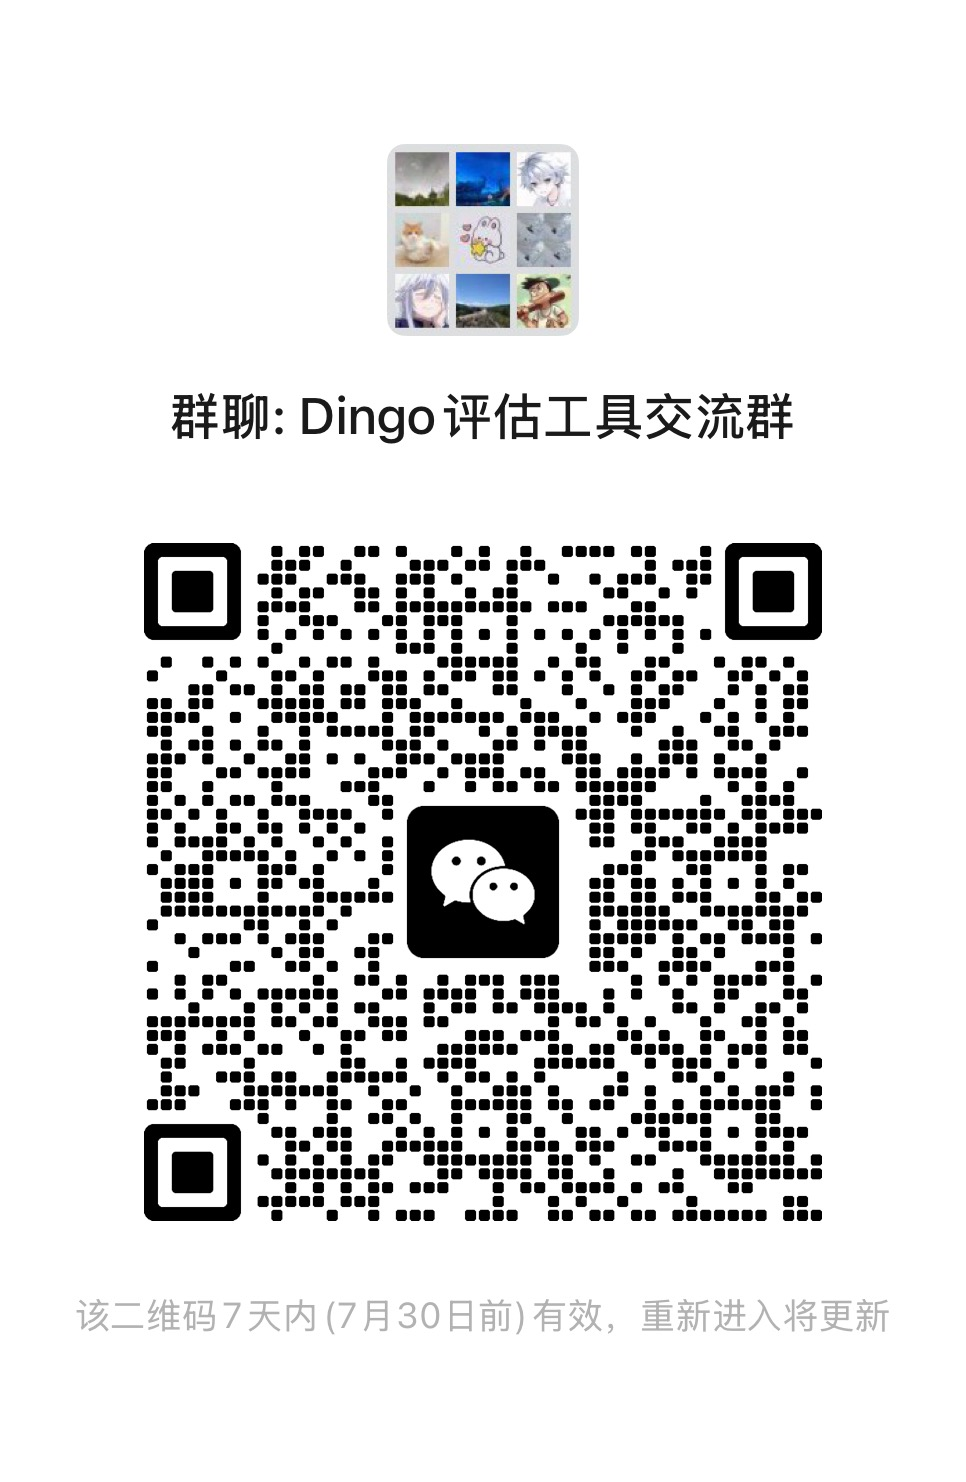
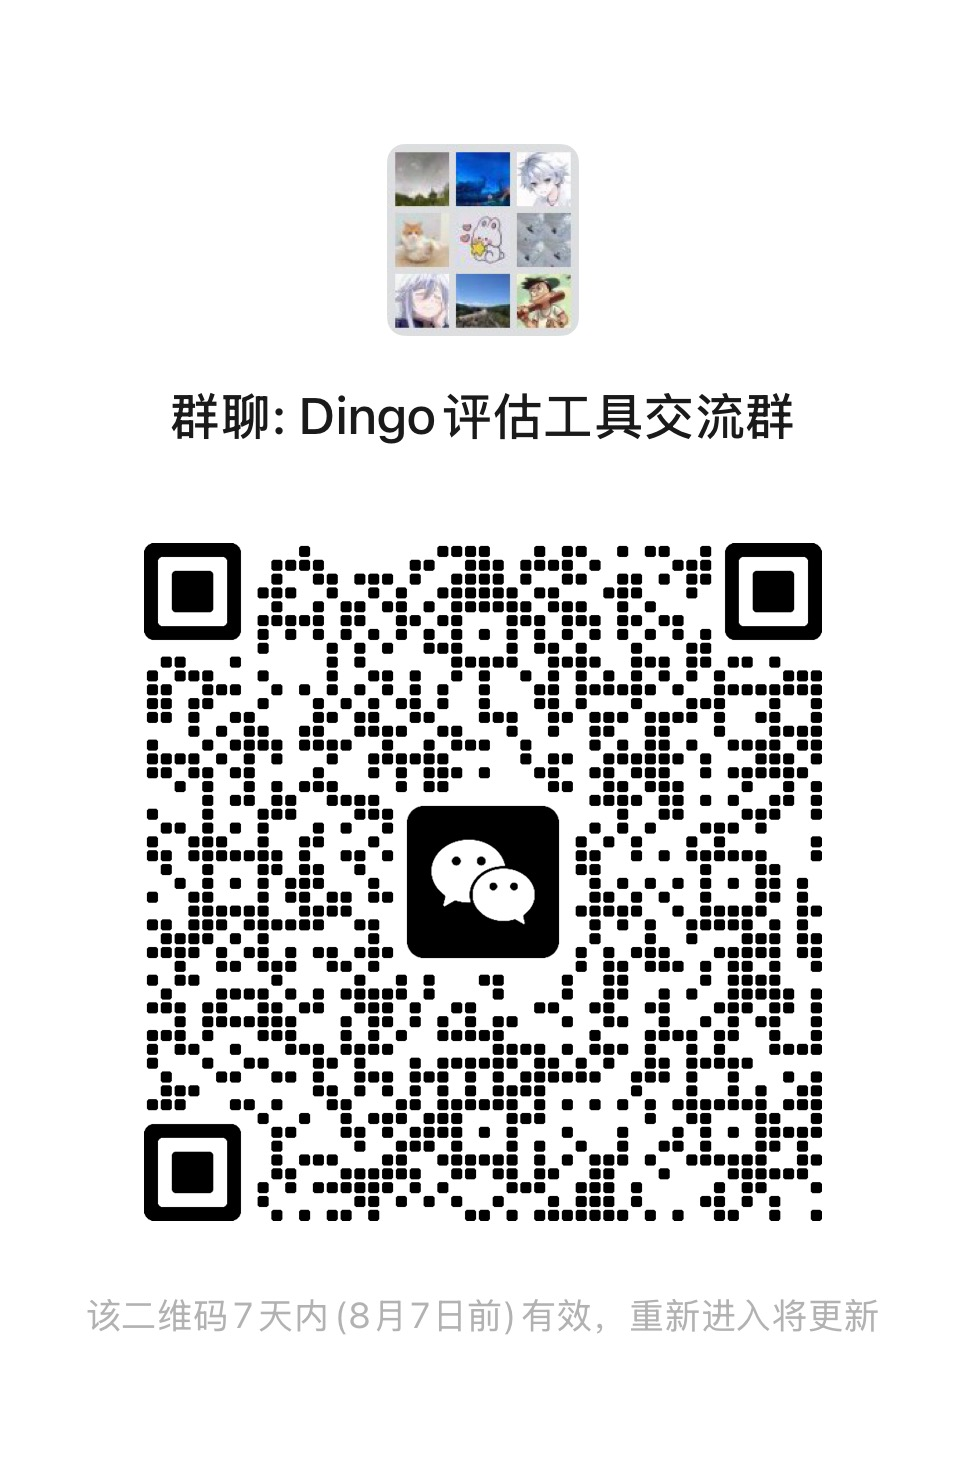
docs: update wechat

diff --git a/README.md b/README.md
@@ -1,5 +1,3 @@
-[![MCP Toplist](https://mcptoplist.com/badge/glama%2FMigoXLab%2Fdingo.svg)](https://mcptoplist.com/server/glama%2FMigoXLab%2Fdingo)
-
 <!-- SEO Meta Information and Structured Data -->
 <div itemscope itemtype="https://schema.org/SoftwareApplication" align="center" xmlns="http://www.w3.org/1999/html">
   <meta itemprop="name" content="Dingo: A Comprehensive AI Data Quality Evaluation Tool">
@@ -30,6 +28,7 @@
   <a href="https://deepwiki.com/MigoXLab/dingo"><img src="https://deepwiki.com/badge.svg" alt="Ask DeepWiki"></a>
   <a href="https://archestra.ai/mcp-catalog/dataeval__dingo"><img src="https://archestra.ai/mcp-catalog/api/badge/quality/DataEval/dingo" alt="Trust Score"></a>
[1 lines of base64/hex data omitted]
+  <a href="https://mcptoplist.com/server/glama%2FMigoXLab%2Fdingo"><img src="https://mcptoplist.com/badge/glama%2FMigoXLab%2Fdingo.svg" alt="MCP Toplist"></a>
 </p>
 
 </div>
